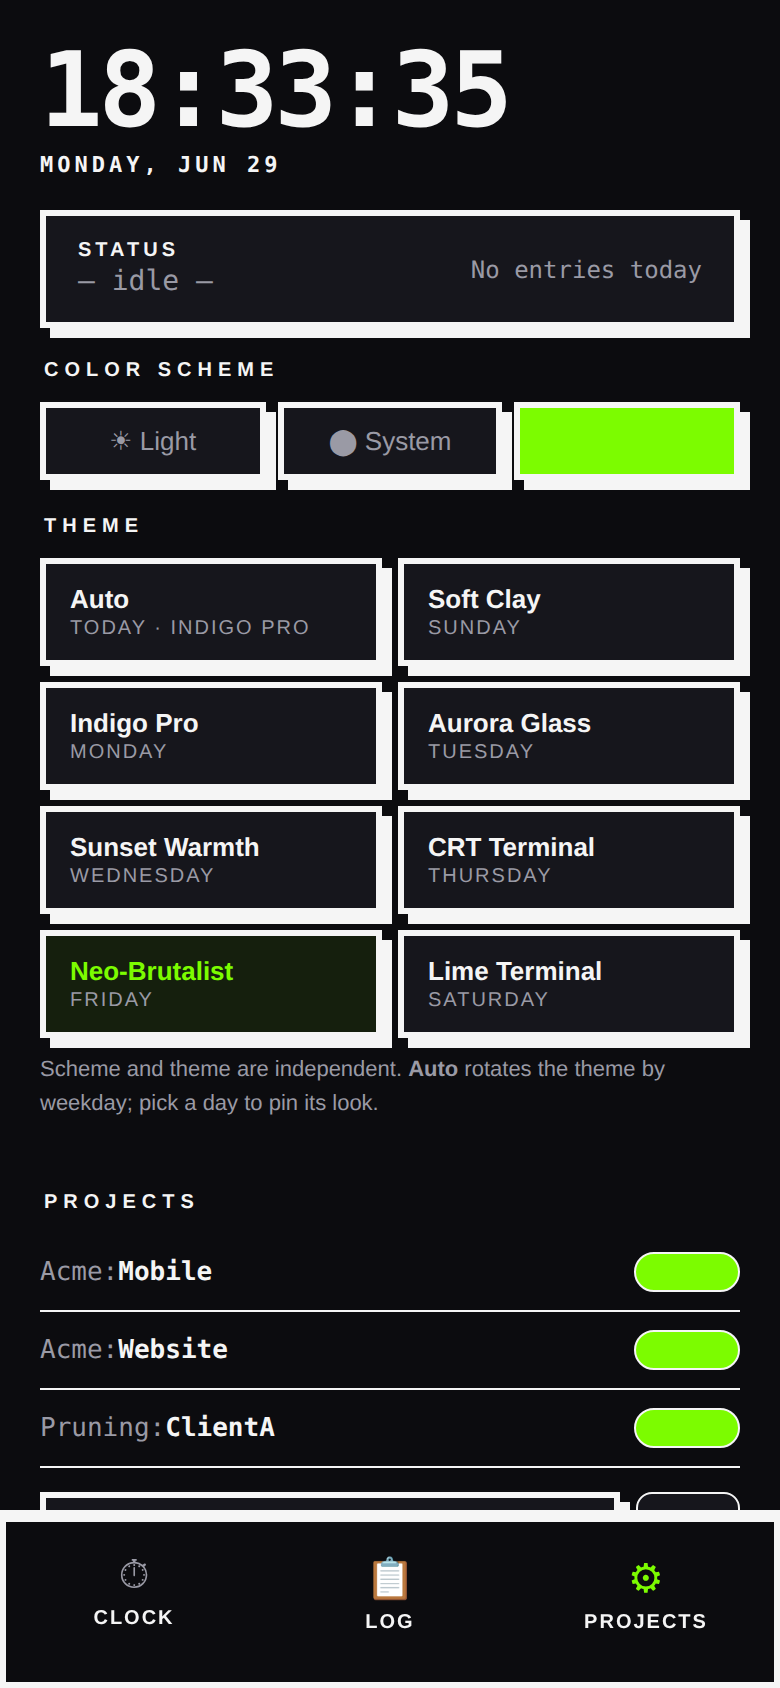
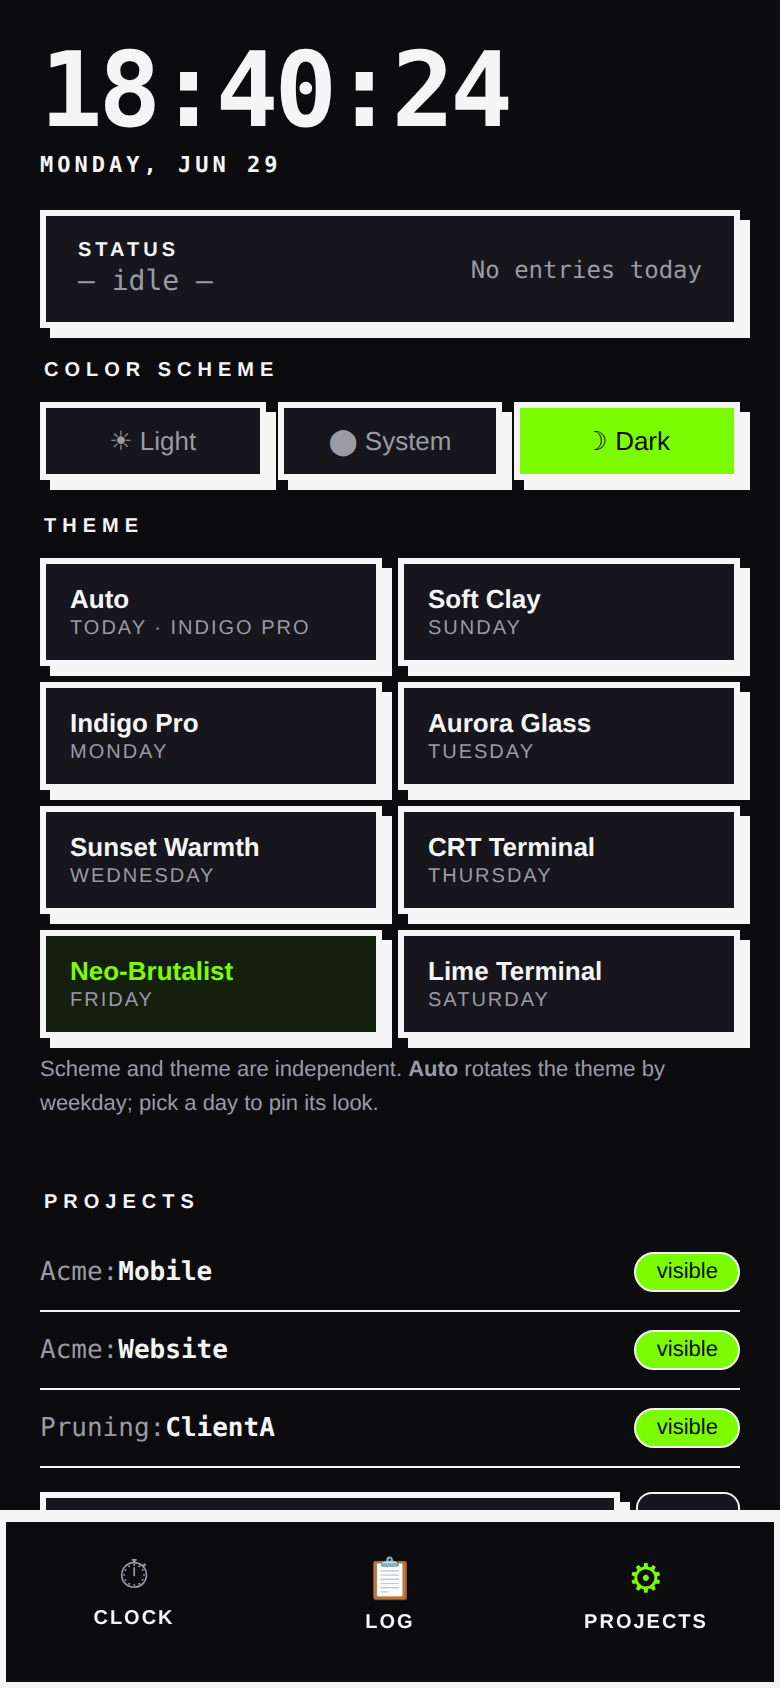
Fix invisible text on filled accent buttons in Clay & Brutal
Clay/Brutal set --lime-badge-bg to the solid accent (== --lime), so
.theme-opt.active / .vis-visible / .modal-save / .confirm-btn rendered
accent text on an accent fill (invisible). Add --on-badge (defaults to
--lime; set to --ink-on-accent for clay/brutal) and use it for those
filled buttons. Affected light and dark.

diff --git a/src/index.css b/src/index.css
@@ -129,7 +129,7 @@ html, body { background: var(--bg); }
 .edit-row { margin-bottom: 14px; }
 .edit-times { display: flex; gap: 8px; }
 .edit-times .edit-row { flex: 1; margin-bottom: 0; }
-.modal-save { flex: 1; padding: 12px; border-radius: 8px; background: var(--lime-badge-bg); border: 1px solid var(--lime-dim); color: var(--lime); font-family: var(--ui); font-size: 14px; font-weight: 600; cursor: pointer; }
+.modal-save { flex: 1; padding: 12px; border-radius: 8px; background: var(--lime-badge-bg); border: 1px solid var(--lime-dim); color: var(--on-badge, var(--lime)); font-family: var(--ui); font-size: 14px; font-weight: 600; cursor: pointer; }
 .modal-save:hover { opacity: 0.85; }
 .danger-btn { width: 100%; padding: 13px; border-radius: 8px; background: transparent; border: 1px solid rgba(239,68,68,0.25); color: rgba(239,68,68,0.7); font-family: var(--ui); font-size: 14px; font-weight: 500; cursor: pointer; transition: all 0.15s; display: flex; align-items: center; gap: 10px; margin-bottom: 8px; }
 .danger-btn:hover { background: rgba(239,68,68,0.08); border-color: rgba(239,68,68,0.5); color: #ef4444; }
@@ -156,7 +156,7 @@ html, body { background: var(--bg); }
 .project-path-mid { color: var(--text); opacity: 0.55; }
 .project-path-leaf { color: var(--text); font-weight: 600; }
 .vis-btn { padding: 3px 10px; border-radius: 20px; font-size: 11px; font-family: var(--ui); font-weight: 500; cursor: pointer; border: 1px solid; transition: all 0.15s; flex-shrink: 0; }
-.vis-visible { background: var(--lime-badge-bg); border-color: var(--lime-badge-border); color: var(--lime); }
+.vis-visible { background: var(--lime-badge-bg); border-color: var(--lime-badge-border); color: var(--on-badge, var(--lime)); }
 .vis-hidden { background: transparent; border-color: var(--border); color: var(--muted); }
 .vis-btn:hover { opacity: 0.75; }
 .hidden-disclosure { width: 100%; padding: 8px 0; background: none; border: none; border-bottom: 1px solid var(--border); color: var(--muted); font-family: var(--ui); font-size: 12px; font-weight: 500; cursor: pointer; text-align: left; letter-spacing: 0.3px; }
@@ -169,12 +169,12 @@ html, body { background: var(--bg); }
 .action-btn:hover { background: var(--surface2); }
 .import-area { width: 100%; padding: 12px 14px; background: var(--surface); border: 1px solid var(--border); border-radius: 8px; color: var(--text); font-family: var(--mono); font-size: 11px; outline: none; resize: vertical; min-height: 120px; margin-bottom: 8px; }
 .import-area::placeholder { color: var(--muted); }
-.confirm-btn { width: 100%; padding: 12px; border-radius: 8px; background: var(--lime-badge-bg); border: 1px solid var(--lime-dim); color: var(--lime); font-family: var(--ui); font-size: 14px; font-weight: 600; cursor: pointer; margin-bottom: 6px; }
+.confirm-btn { width: 100%; padding: 12px; border-radius: 8px; background: var(--lime-badge-bg); border: 1px solid var(--lime-dim); color: var(--on-badge, var(--lime)); font-family: var(--ui); font-size: 14px; font-weight: 600; cursor: pointer; margin-bottom: 6px; }
 .confirm-btn:hover { background: var(--lime-badge-border); }
 .cancel-btn { width: 100%; padding: 12px; border-radius: 8px; background: transparent; border: 1px solid var(--border); color: var(--muted); font-family: var(--ui); font-size: 14px; cursor: pointer; }
 .theme-toggle { display: flex; gap: 6px; }
 .theme-opt { flex: 1; padding: 9px 4px; border-radius: 7px; background: var(--surface); border: 1px solid var(--border); color: var(--muted); font-family: var(--ui); font-size: 13px; font-weight: 500; cursor: pointer; transition: all 0.15s; text-align: center; }
-.theme-opt.active { background: var(--lime-badge-bg); border-color: var(--lime-dim); color: var(--lime); }
+.theme-opt.active { background: var(--lime-badge-bg); border-color: var(--lime-dim); color: var(--on-badge, var(--lime)); }
 .hint { font-size: 11px; color: var(--muted); line-height: 1.5; padding: 8px 0; }
 .stat-row { display: flex; justify-content: space-between; margin-bottom: 8px; }
 .stat-row:last-child { margin-bottom: 0; }
@@ -521,14 +521,14 @@ html, body { background: var(--bg); }
   --text:#f5f5f5; --muted:#9a9aa5; --times-color:#6a6a76; --nav-bg:#0c0c0f;
   --lime:#7CFC00; --lime-dim:#f5f5f5; --lime-bg:rgba(124,252,0,0.08);
   --lime-badge-bg:#7CFC00; --lime-badge-border:#f5f5f5; --amber:#ff3b6b;
-  --hard-ink:#f5f5f5; --brutal-active:#243b14; --ink-on-accent:#0c0c0f;
+  --hard-ink:#f5f5f5; --brutal-active:#243b14; --ink-on-accent:#0c0c0f; --on-badge:var(--ink-on-accent);
 }
 [data-theme="brutal-light"] {
   --bg:#ffe14d; --surface:#ffffff; --surface2:#ffffff; --border:#111111;
   --text:#111111; --muted:#555555; --times-color:#777777; --nav-bg:#ffffff;
   --lime:#1f6feb; --lime-dim:#111111; --lime-bg:rgba(31,111,235,0.06);
   --lime-badge-bg:#1f6feb; --lime-badge-border:#111111; --amber:#e11d48;
-  --hard-ink:#111111; --brutal-active:#c6f68d; --ink-on-accent:#ffffff;
+  --hard-ink:#111111; --brutal-active:#c6f68d; --ink-on-accent:#ffffff; --on-badge:var(--ink-on-accent);
 }
 
 /* ─────────────────────────  CLAY · neumorphic  ──────────────────────────── */
@@ -565,7 +565,7 @@ html, body { background: var(--bg); }
   --lime:#a78bfa; --lime-dim:#7c6bd6; --lime-bg:rgba(167,139,250,0.08);
   --lime-badge-bg:#a78bfa; --lime-badge-border:transparent; --amber:#f0789f;
   --neu-d:rgba(0,0,0,0.5); --neu-l:rgba(255,255,255,0.07); --ink-on-accent:#1a1320; --accent-glow:rgba(167,139,250,0.45);
-  --inset-edge:var(--lime-dim);
+  --on-badge:var(--ink-on-accent); --inset-edge:var(--lime-dim);
 }
 [data-theme="clay-light"] {
   --bg:#e8e6ff; --surface:#efeefe; --surface2:#f1ecff; --border:transparent;
@@ -573,7 +573,7 @@ html, body { background: var(--bg); }
   --lime:#7c5cff; --lime-dim:#b9aaff; --lime-bg:rgba(124,92,255,0.06);
   --lime-badge-bg:#7c5cff; --lime-badge-border:transparent; --amber:#ef6aa8;
   --neu-d:rgba(160,150,210,0.55); --neu-l:rgba(255,255,255,0.9); --ink-on-accent:#ffffff; --accent-glow:rgba(124,92,255,0.5);
-  --inset-edge:rgba(124,92,255,0.55);
+  --on-badge:var(--ink-on-accent); --inset-edge:rgba(124,92,255,0.55);
 }
 
 /* ── Theme (concept) picker grid (Projects → Appearance) ── */
